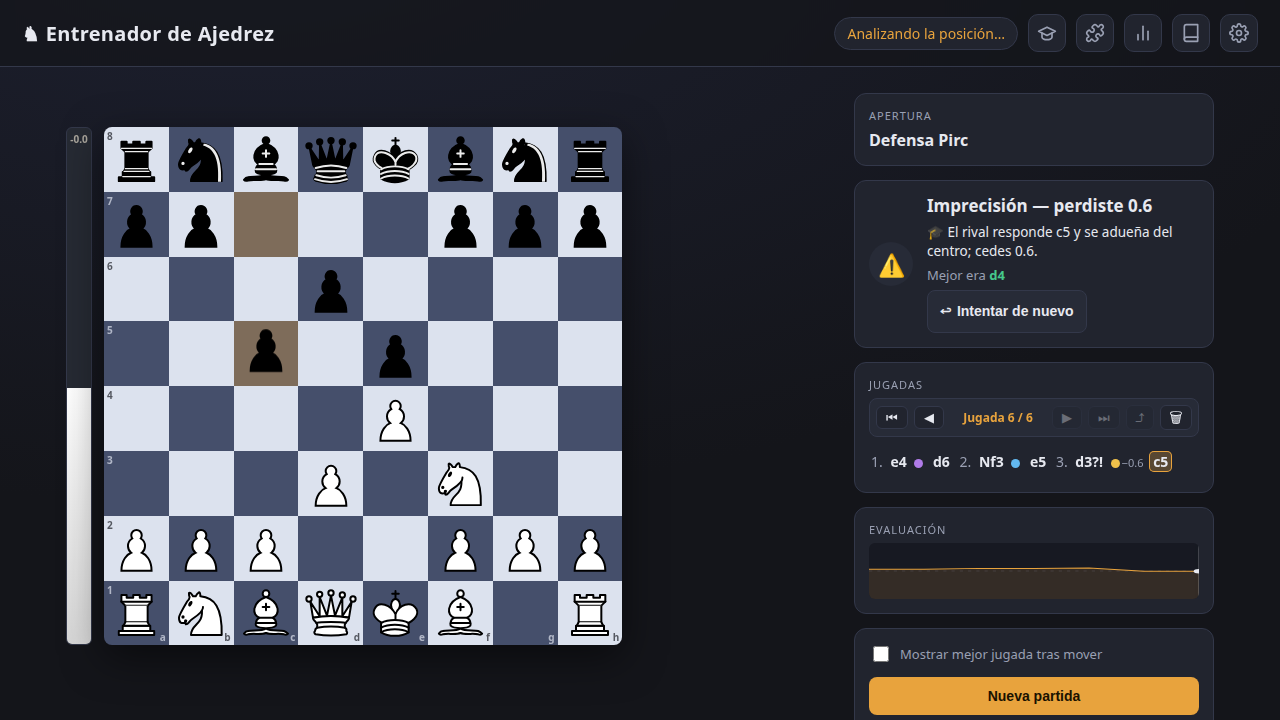
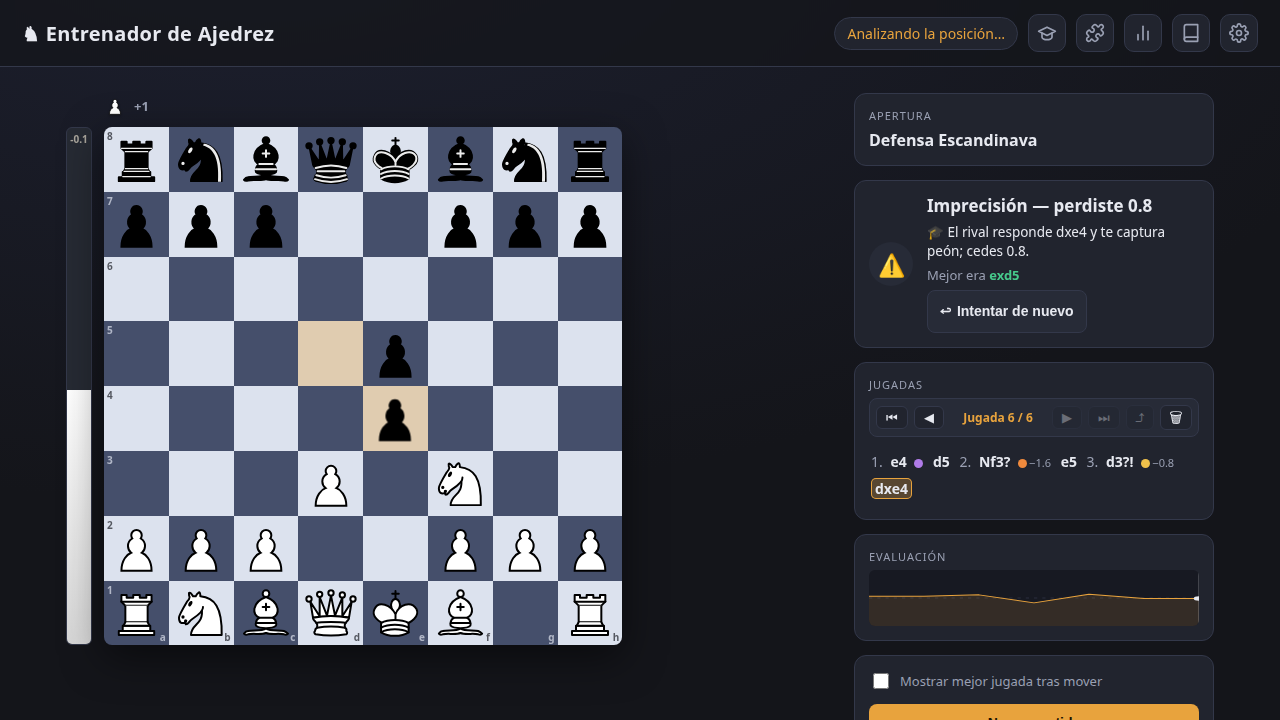
Sirve el HTML/CSS/JS con red primero y hace visible la barra del modal
El service worker cacheaba todo con estrategia "caché primero, sin
revalidar", así que un cambio en el CSS no llegaba al navegador salvo que
se subiera a mano la versión del caché. Al arreglar el desplazamiento de
los modales olvidé subirla, y el arreglo se quedó invisible: la app seguía
sirviendo la hoja de estilos anterior desde el caché.

Ahora el HTML/CSS/JS va red primero con el caché como respaldo sin
conexión, así que este fallo no puede repetirse; lo pesado e inmutable
(el WASM de 7 MB, las piezas SVG) se sigue sirviendo desde el caché.
Además la página se recarga sola una vez cuando un service worker nuevo
toma el control, porque si no los ficheros de esa carga ya salieron del
anterior y se sigue viendo la versión vieja.

La barra del modal usa las propiedades estándar `scrollbar-color` con el
carril de un color real: con el carril transparente quedaba casi
invisible sobre el fondo oscuro. Nota para el futuro: al declarar
`scrollbar-color`, Chrome ignora `::-webkit-scrollbar`, así que esas
reglas quedan solo como respaldo para motores antiguos.

diff --git a/sw.js b/sw.js
@@ -1,6 +1,16 @@
 // Service worker: app shell offline. Precachea el núcleo (incluido el motor
 // WASM ~7 MB) para que la app funcione sin conexión tras la primera carga.
-const CACHE = 'entrenador-ajedrez-v8';
+const CACHE = 'entrenador-ajedrez-v9';
+
+// El HTML/CSS/JS se sirve **red primero**: son ficheros pequeños que cambian a
+// menudo, y con la estrategia anterior (caché primero, sin revalidar) un arreglo
+// no llegaba nunca al navegador salvo que se subiera a mano la versión de arriba
+// —olvidarlo una vez dejaba la app congelada en la versión vieja—. El caché
+// queda de respaldo para funcionar sin conexión. Lo pesado e inmutable (el WASM
+// de 7 MB, las piezas SVG, los iconos) se sigue sirviendo desde el caché.
+const isAppShell = (url) =>
+  url.pathname === '/' || url.pathname.endsWith('/') ||
+  /\.(html|css|m?js|webmanifest)$/.test(url.pathname);
 
 const CORE = [
   './',
@@ -58,23 +68,32 @@ self.addEventListener('activate', (e) => {
   );
 });
 
-// Cache-first para GET del mismo origen; añade al caché lo nuevo que se pida.
+const save = (req, res) => {
+  if (res && res.ok && res.type === 'basic') {
+    const copy = res.clone();
+    caches.open(CACHE).then((c) => c.put(req, copy)).catch(() => {});
+  }
+  return res;
+};
+
+// Solo GET del mismo origen; el resto (p. ej. la API del coach IA) pasa de largo.
 self.addEventListener('fetch', (e) => {
   const req = e.request;
   if (req.method !== 'GET') return;
   const url = new URL(req.url);
   if (url.origin !== self.location.origin) return;
 
+  if (isAppShell(url)) {
+    // Red primero, caché como respaldo si no hay conexión.
+    e.respondWith(
+      fetch(req).then((res) => save(req, res))
+        .catch(() => caches.match(req).then((cached) => cached || Response.error()))
+    );
+    return;
+  }
+
+  // Caché primero para lo pesado e inmutable.
   e.respondWith(
-    caches.match(req).then((cached) => {
-      if (cached) return cached;
-      return fetch(req).then((res) => {
-        if (res && res.ok && res.type === 'basic') {
-          const copy = res.clone();
-          caches.open(CACHE).then((c) => c.put(req, copy)).catch(() => {});
-        }
-        return res;
-      }).catch(() => cached);
-    })
+    caches.match(req).then((cached) => cached || fetch(req).then((res) => save(req, res)))
   );
 });

diff --git a/css/style.css b/css/style.css
@@ -636,6 +636,21 @@ body.opening-mode .captures { display: none; }
   background: var(--card); border: 1px solid var(--line);
   border-radius: 16px; padding: 26px; width: min(400px, 100%);
   max-height: 100%; overflow-y: auto; overscroll-behavior: contain;
+  /* Barra visible y con sitio propio: sin ella no se nota que el cuadro
+     desplaza y parece que abajo no hay nada más. Se usan las propiedades
+     estándar (Chrome 121+, Firefox, Safari 18.2+) con el carril de un color
+     real —con `transparent` la barra queda casi invisible sobre el fondo
+     oscuro— y ancho `auto`, que es más fácil de agarrar que `thin`.
+     OJO: en cuanto se declara `scrollbar-color`, Chrome ignora las reglas
+     `::-webkit-scrollbar`; las de abajo son solo el respaldo para motores
+     antiguos, no se pueden combinar con las de arriba. */
+  scrollbar-color: var(--muted) var(--bg-2);
+}
+.modal::-webkit-scrollbar { width: 12px; }
+.modal::-webkit-scrollbar-track { background: var(--bg-2); border-radius: 10px; }
+.modal::-webkit-scrollbar-thumb {
+  background: var(--muted); border-radius: 10px;
+  border: 3px solid var(--bg-2); /* deja aire a los lados del pulgar */
 }
 .modal h2 { margin: 0 0 18px; }
 .field { margin-bottom: 20px; }

diff --git a/js/main.js b/js/main.js
@@ -1741,6 +1741,18 @@ async function main() {
 
 // Registra el service worker (PWA offline). No bloquea el arranque.
 if ('serviceWorker' in navigator) {
+  // Cuando entra un service worker nuevo, los ficheros de ESTA carga ya salieron
+  // del anterior, así que la página sigue mostrando la versión vieja hasta que
+  // vuelvas a recargar. Recargamos una vez al tomar el control para evitarlo.
+  // `hadController` distingue una actualización de la primera instalación (ahí
+  // no hay nada viejo que refrescar y recargar sería gratuito).
+  const hadController = !!navigator.serviceWorker.controller;
+  let reloading = false;
+  navigator.serviceWorker.addEventListener('controllerchange', () => {
+    if (!hadController || reloading) return;
+    reloading = true;
+    location.reload();
+  });
   window.addEventListener('load', () => {
     navigator.serviceWorker.register('sw.js').catch((e) => console.warn('SW no registrado:', e));
   });
